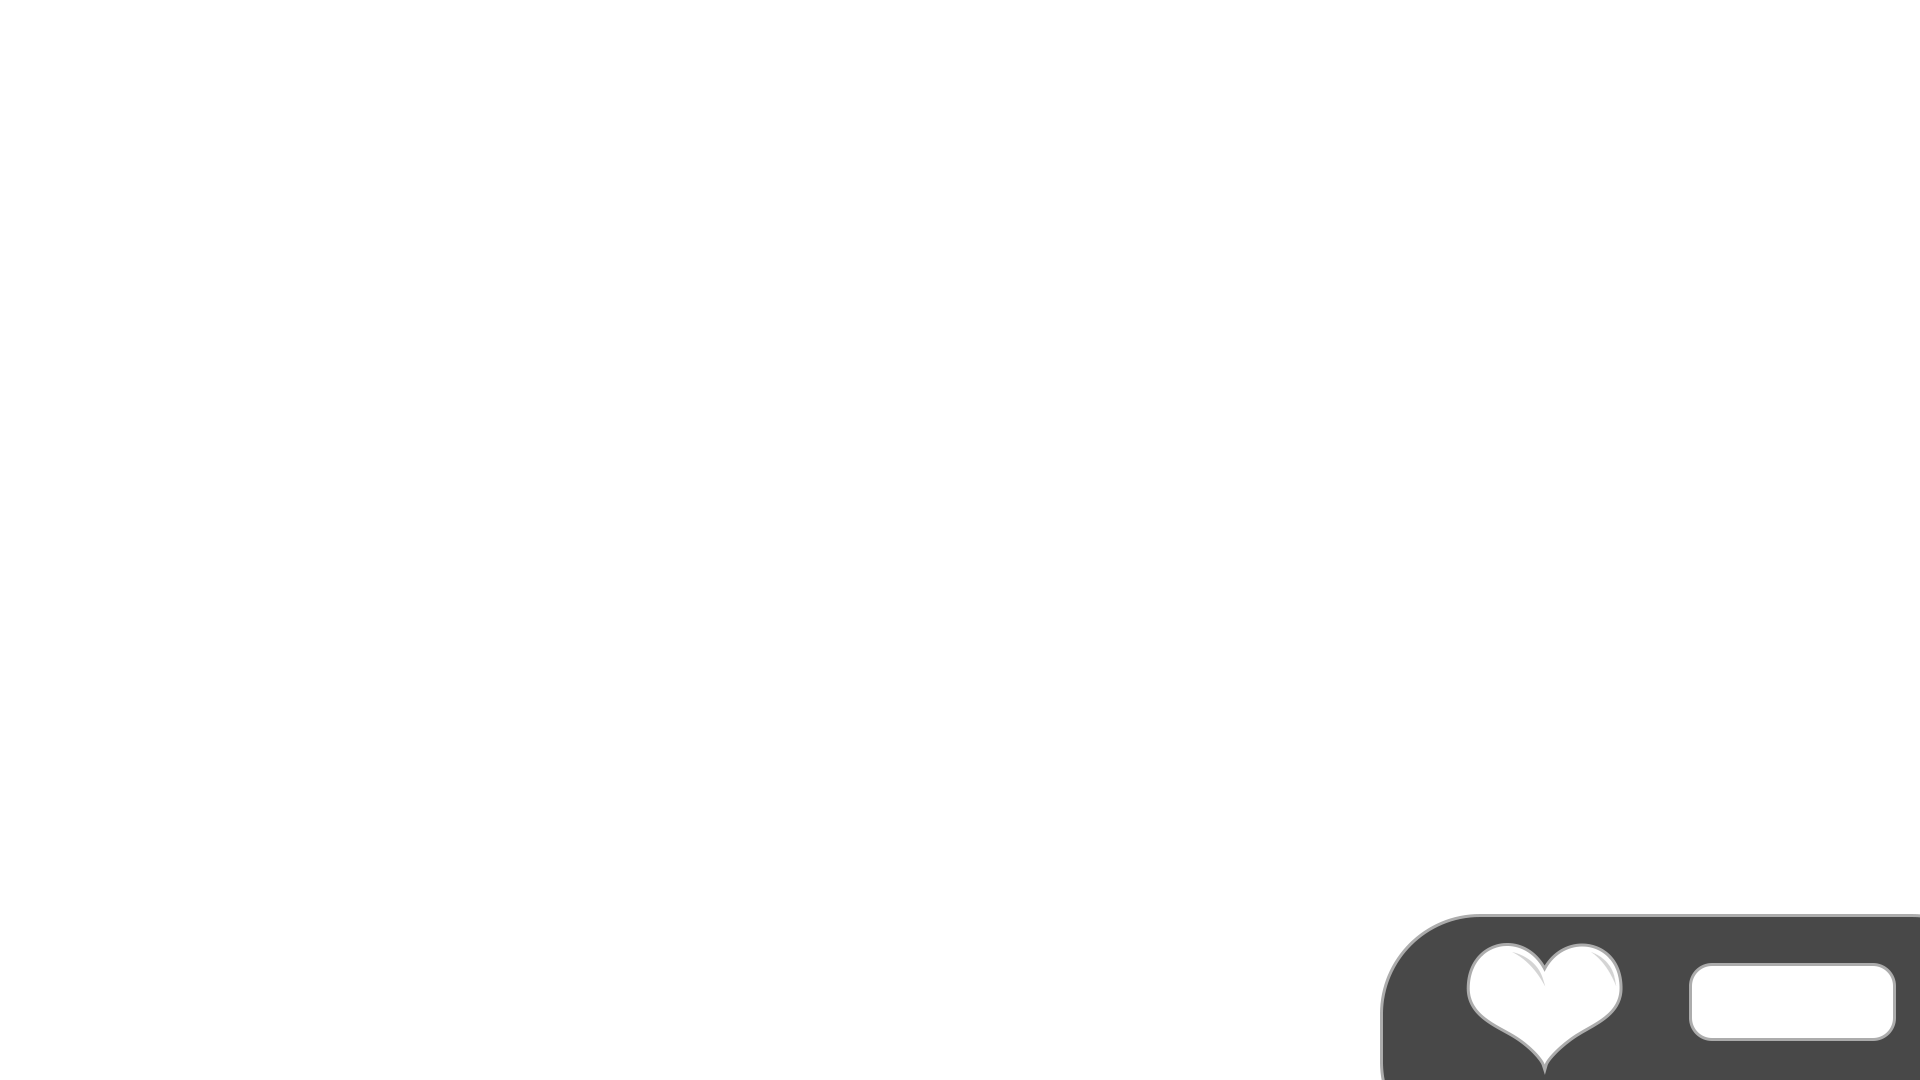
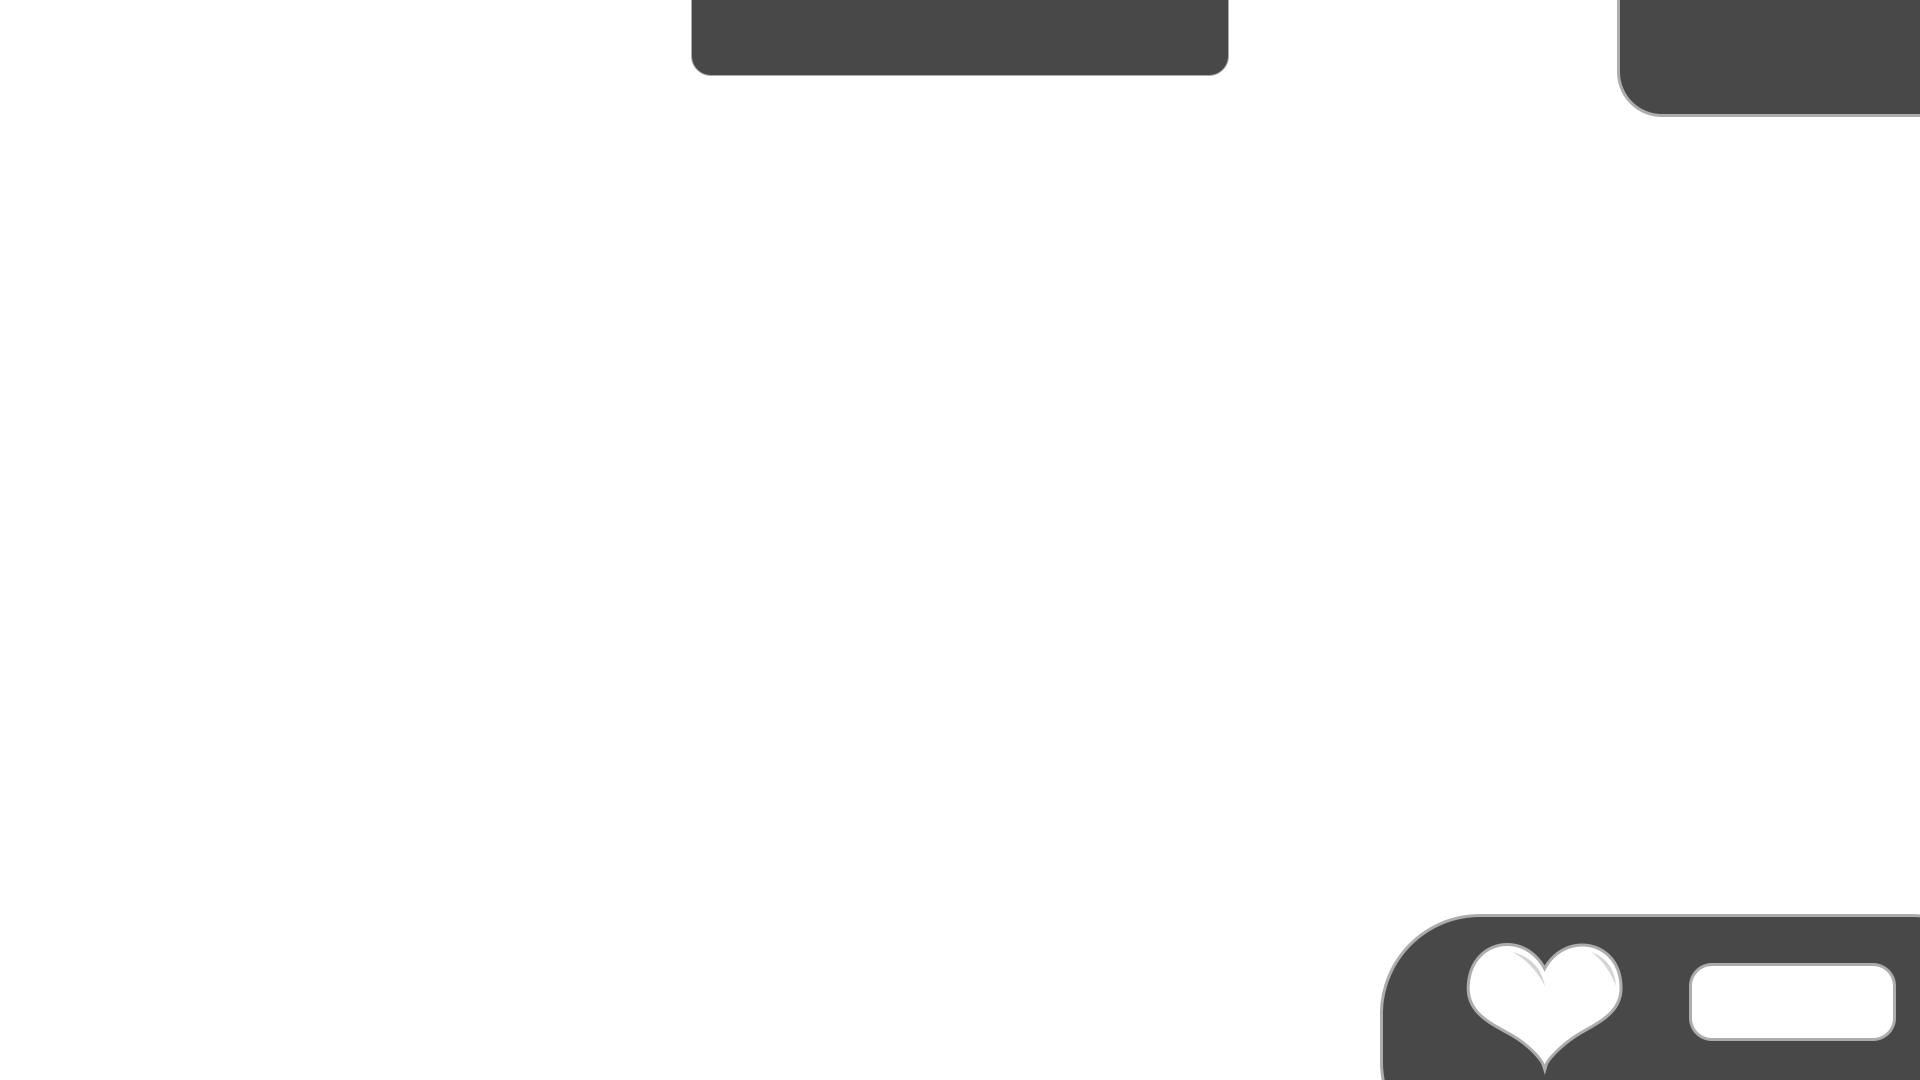
Add rouns tab

Changed region(s): [[0.3438, 0.0, 0.6562, 0.0917], [0.8438, 0.0, 1.0, 0.1222]]

diff --git a/GameObject/base.cpp b/GameObject/base.cpp
@@ -5,7 +5,6 @@ const Coordinate Base::kHealthPosition = Coordinate(1465, 945);
 const Size Base::kHealthSize = Size(160, 120);
 const Coordinate Base::kGoldPosition = Coordinate(1680, 960);
 const Size Base::kGoldSize = Size(260, 80);
-const double Base::kFontSize = 22;
 
 Base::Base(int gold, double max_health, Coordinate position)
     : GameObject(Size(0, 0), position), gold_(gold),
@@ -19,15 +18,20 @@ void Base::Draw(QPainter* painter, const SizeHandler& size_handler) const {
   painter->save();
 
   auto font = painter->font();
-  font.setPixelSize(size_handler.GameToWindowLength(kFontSize));
+  font.setPixelSize(size_handler.GameToWindowLength(constants::kFontSize));
   font.setFamily(QFontDatabase::applicationFontFamilies(0).at(0));
   painter->setFont(font);
-  painter->setBrush(Qt::red);
 
   Coordinate health_top_corner = size_handler.GameToWindowCoordinate(
       {kHealthPosition.x, kHealthPosition.y
           + kHealthSize.height * (1 - current_health_ / max_health_)});
+  Coordinate health_background = size_handler.GameToWindowCoordinate(
+      kHealthPosition);
   Size health_size = size_handler.GameToWindowSize(kHealthSize);
+  painter->setBrush(Qt::black);
+  painter->drawRect(health_background.x, health_background.y,
+                    health_size.width, health_size.height);
+  painter->setBrush(Qt::red);
   painter->drawRect(health_top_corner.x, health_top_corner.y,
                     health_size.width, health_size.height);
 
@@ -40,7 +44,7 @@ void Base::Draw(QPainter* painter, const SizeHandler& size_handler) const {
 
   painter->setPen(Qt::white);
   Coordinate health_info = size_handler.GameToWindowCoordinate(
-      {kHealthPosition.x + kHealthSize.width / 2 - 25,
+      {kHealthPosition.x + kHealthSize.width / 2 - 35,
        kHealthPosition.y + kHealthSize.height / 2 + 5});
   painter->drawText(health_info.x, health_info.y,
                     QString::number(static_cast<int>(current_health_)));
@@ -48,7 +52,7 @@ void Base::Draw(QPainter* painter, const SizeHandler& size_handler) const {
   painter->setPen(Qt::yellow);
   Coordinate gold_info = size_handler.GameToWindowCoordinate(
       {kGoldPosition.x + 30, kGoldPosition.y + kGoldSize.height / 2 + 10});
-  painter->drawText(gold_info.x, gold_info.y, QString::number(gold_));
+  painter->drawText(gold_info.x, gold_info.y, QString::number(gold_) + " g.");
 
   painter->setBrush(Qt::magenta);
 

diff --git a/View/menu_button.cpp b/View/menu_button.cpp
@@ -29,6 +29,7 @@ MenuButton::MenuButton(const Size& button_size,
   setIcon(main_icon_1_);
   setCursor(Qt::PointingHandCursor);
   setMouseTracking(true);
+  setStyleSheet("background: transparent;");
 }
 
 void MenuButton::SetGeometry(
@@ -44,27 +45,33 @@ void MenuButton::SetGeometry(
       button_constants::kMenuFontSize));
   setFont(font);
 
-  border_size_ =
-      size_handler.GameToWindowLength(button_constants::kMenuBorderSize);
-  QString style_sheet =
-      "border: " + QString::number(border_size_) + "px solid #000000;";
-  setStyleSheet(style_sheet);
+  if (text() != "") {
+    border_size_ =
+        size_handler.GameToWindowLength(button_constants::kMenuBorderSize);
+    QString style_sheet =
+        "border: " + QString::number(border_size_) + "px solid #000000;";
+    setStyleSheet(style_sheet);
+  }
 }
 
 void MenuButton::enterEvent(QEvent*) {
-  QString style_sheet =
-      "border: " + QString::number(border_size_) + "px solid #000000;";
-  style_sheet += "background-color: " +
-      QColor::fromRgb(static_cast<int32_t>(random_generator_())).name() + ";";
-  setStyleSheet(style_sheet);
+  if (text() != "") {
+    QString style_sheet =
+        "border: " + QString::number(border_size_) + "px solid #000000;";
+    style_sheet += "background-color: " +
+        QColor::fromRgb(static_cast<int32_t>(random_generator_())).name() + ";";
+    setStyleSheet(style_sheet);
+  }
   setIcon((is_second_icon_enabled_) ? active_icon_2_ : active_icon_1_);
 }
 
 void MenuButton::leaveEvent(QEvent*) {
-  QString style_sheet =
-      "border: " + QString::number(border_size_) + "px solid #000000;";
-  style_sheet += "background-color: #ffffff;";
-  setStyleSheet(style_sheet);
+  if (text() != "") {
+    QString style_sheet =
+        "border: " + QString::number(border_size_) + "px solid #000000;";
+    style_sheet += "background-color: #ffffff;";
+    setStyleSheet(style_sheet);
+  }
   setIcon((is_second_icon_enabled_) ? main_icon_2_ : main_icon_1_);
 }
 

diff --git a/View/view.cpp b/View/view.cpp
@@ -163,6 +163,8 @@ void View::EnableMainMenuUi() {
 }
 
 void View::DrawAdditionalInfo(QPainter* painter) {
+  painter->save();
+
   const auto& enemies_list = controller_->GetEnemies();
   for (auto& enemy : enemies_list) {
     enemy->DrawHealthBar(painter, size_handler_);
@@ -188,10 +190,28 @@ void View::DrawAdditionalInfo(QPainter* painter) {
   painter->drawImage(origin.x, origin.y,
                      controller_->GetInterface().GetCurrentFrame());
 
+  auto font = painter->font();
+  font.setPixelSize(size_handler_.GameToWindowLength(constants::kFontSize));
+  font.setFamily(QFontDatabase::applicationFontFamilies(0).at(0));
+  painter->setFont(font);
+  painter->setPen(Qt::white);
+
+  Coordinate round_info_position = size_handler_.GameToWindowCoordinate(
+      kRoundPosition);
+  Size round_info_size = size_handler_.GameToWindowSize(kRoundSize);
+  QString round_info = tr("Раунд") + " " +
+      QString::number(controller_->GetCurrentRoundNumber()) + " " + tr("из") +
+      " " + QString::number(controller_->GetRoundsCount());
+  painter->drawText(round_info_position.x, round_info_position.y,
+                    round_info_size.width, round_info_size.height,
+                    Qt::AlignCenter, round_info);
+
   const auto& text_notifications = controller_->GetTextNotifications();
   for (auto& notification : text_notifications) {
     notification.Draw(painter, size_handler_);
   }
+
+  painter->restore();
 }
 
 void View::DisableMainMenuUi() {

diff --git a/View/button_handler.cpp b/View/button_handler.cpp
@@ -247,9 +247,9 @@ void ButtonHandler::CreateGameButtons() {
 
 void ButtonHandler::RescaleGameButtons(SizeHandler size_handler) {
   Size shift = Size(short_button_size_.width + shift_, 0);
-  pause_button_->SetGeometry({0, 0}, size_handler);
+  pause_button_->SetGeometry({10, 10}, size_handler);
   Coordinate zero_speed_button_coordinate =
-      Coordinate(constants::kGameWidth, 0) - shift * 2
+      Coordinate(constants::kGameWidth - 20, 20) - shift * 2
           - Size(short_button_size_.width, 0);
   zero_speed_button_->SetGeometry(zero_speed_button_coordinate, size_handler);
   normal_speed_button_->SetGeometry(zero_speed_button_coordinate + shift,

diff --git a/Controller/controller.cpp b/Controller/controller.cpp
@@ -359,3 +359,11 @@ const AnimationPlayer& Controller::GetBackground(WindowType type) const {
 const AnimationPlayer& Controller::GetInterface() const {
   return model_->GetInterface();
 }
+
+int Controller::GetCurrentRoundNumber() const {
+  return model_->GetCurrentRoundNumber();
+}
+
+int Controller::GetRoundsCount() const {
+  return model_->GetRoundsCount();
+}

diff --git a/Controller/controller.h b/Controller/controller.h
@@ -37,6 +37,9 @@ class Controller : public AbstractController {
   const AnimationPlayer& GetBackground(WindowType type) const override;
   const AnimationPlayer& GetInterface() const override;
 
+  int GetCurrentRoundNumber() const override;
+  int GetRoundsCount() const override;
+
  private:
   std::unique_ptr<Model> model_;
   std::unique_ptr<View> view_;

diff --git a/Controller/abstract_controller.h b/Controller/abstract_controller.h
@@ -57,6 +57,9 @@ class AbstractController {
 
   virtual const AnimationPlayer& GetBackground(WindowType type) const = 0;
   virtual const AnimationPlayer& GetInterface() const = 0;
+
+  virtual int GetCurrentRoundNumber() const = 0;
+  virtual int GetRoundsCount() const = 0;
 };
 
 #endif  // CONTROLLER_ABSTRACT_CONTROLLER_H_

diff --git a/View/menu_button.h b/View/menu_button.h
@@ -21,7 +21,7 @@ const Size kLongButtonSize = Size(640, 72);
 const Size kShortButtonSize = Size(72, 72);
 const int kMenuFontSize = 36;
 const Coordinate kFirstButtonCoordinate = Coordinate(640, 360);
-const int kShift = 8;
+const int kShift = 20;
 }  // namespace button_constants
 
 class MenuButton : public QPushButton {

diff --git a/Model/constants.h b/Model/constants.h
@@ -15,6 +15,8 @@ const int kTimeScale = 100;
 // Coefficient describes, how small SemiMinorAxe in compare between SemiMajorAxe
 const double kSemiMinorCoefficient = 0.4;
 const double kRefundCoefficient = 0.3;
+
+const double kFontSize = 32;
 }  // namespace constants
 
 #endif  // MODEL_CONSTANTS_H_

diff --git a/View/view.h b/View/view.h
@@ -54,6 +54,9 @@ class View : public QMainWindow {
   bool is_tower_menu_enabled_ = false;
   double game_speed_coefficient_ = 1;
 
+  const Coordinate kRoundPosition = {690, 0};
+  const Size kRoundSize = {540, 75};
+
  private:
   // Events
   void paintEvent(QPaintEvent*) override;

diff --git a/GameObject/base.h b/GameObject/base.h
@@ -40,7 +40,6 @@ class Base : public GameObject {
   static const Size kHealthSize;
   static const Coordinate kGoldPosition;
   static const Size kGoldSize;
-  static const double kFontSize;
 };
 
 #endif  // GAMEOBJECT_BASE_H_
